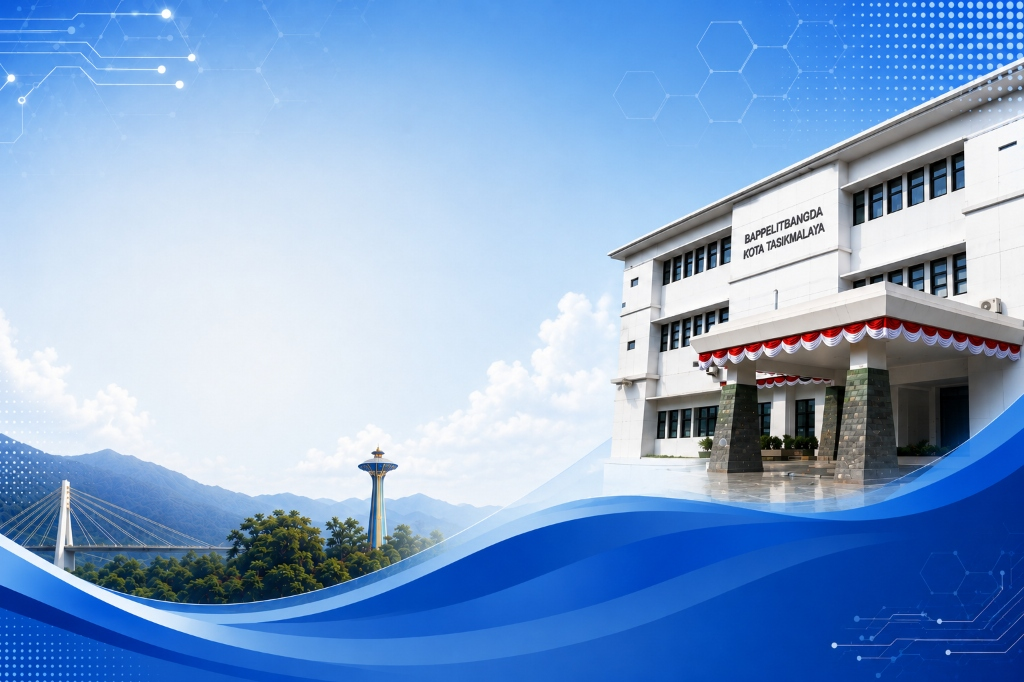
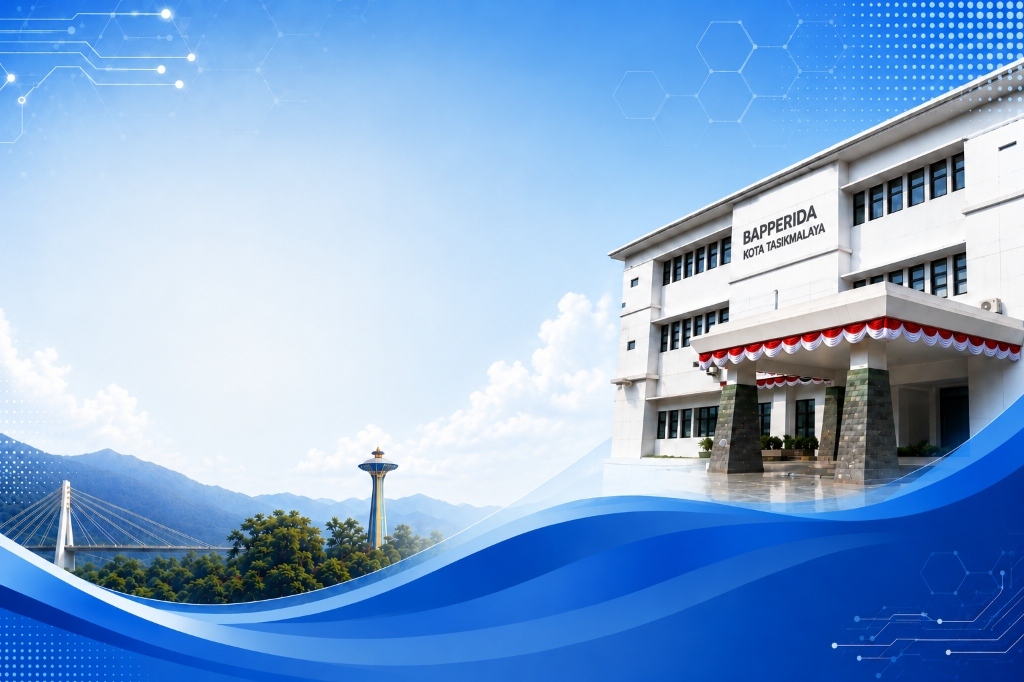
fix(ui): update hero background image with BAPPERIDA branding and cache buster

diff --git a/resources/views/user/welcome.blade.php b/resources/views/user/welcome.blade.php
@@ -50,7 +50,7 @@
         }
 
         .bg-hero {
-            background-image: url("{{ asset('images/hero-bg.jpg') }}");
+            background-image: url("{{ asset('images/hero-bg.jpg') }}?v=2");
             background-size: cover;
             background-position: center right;
         }
